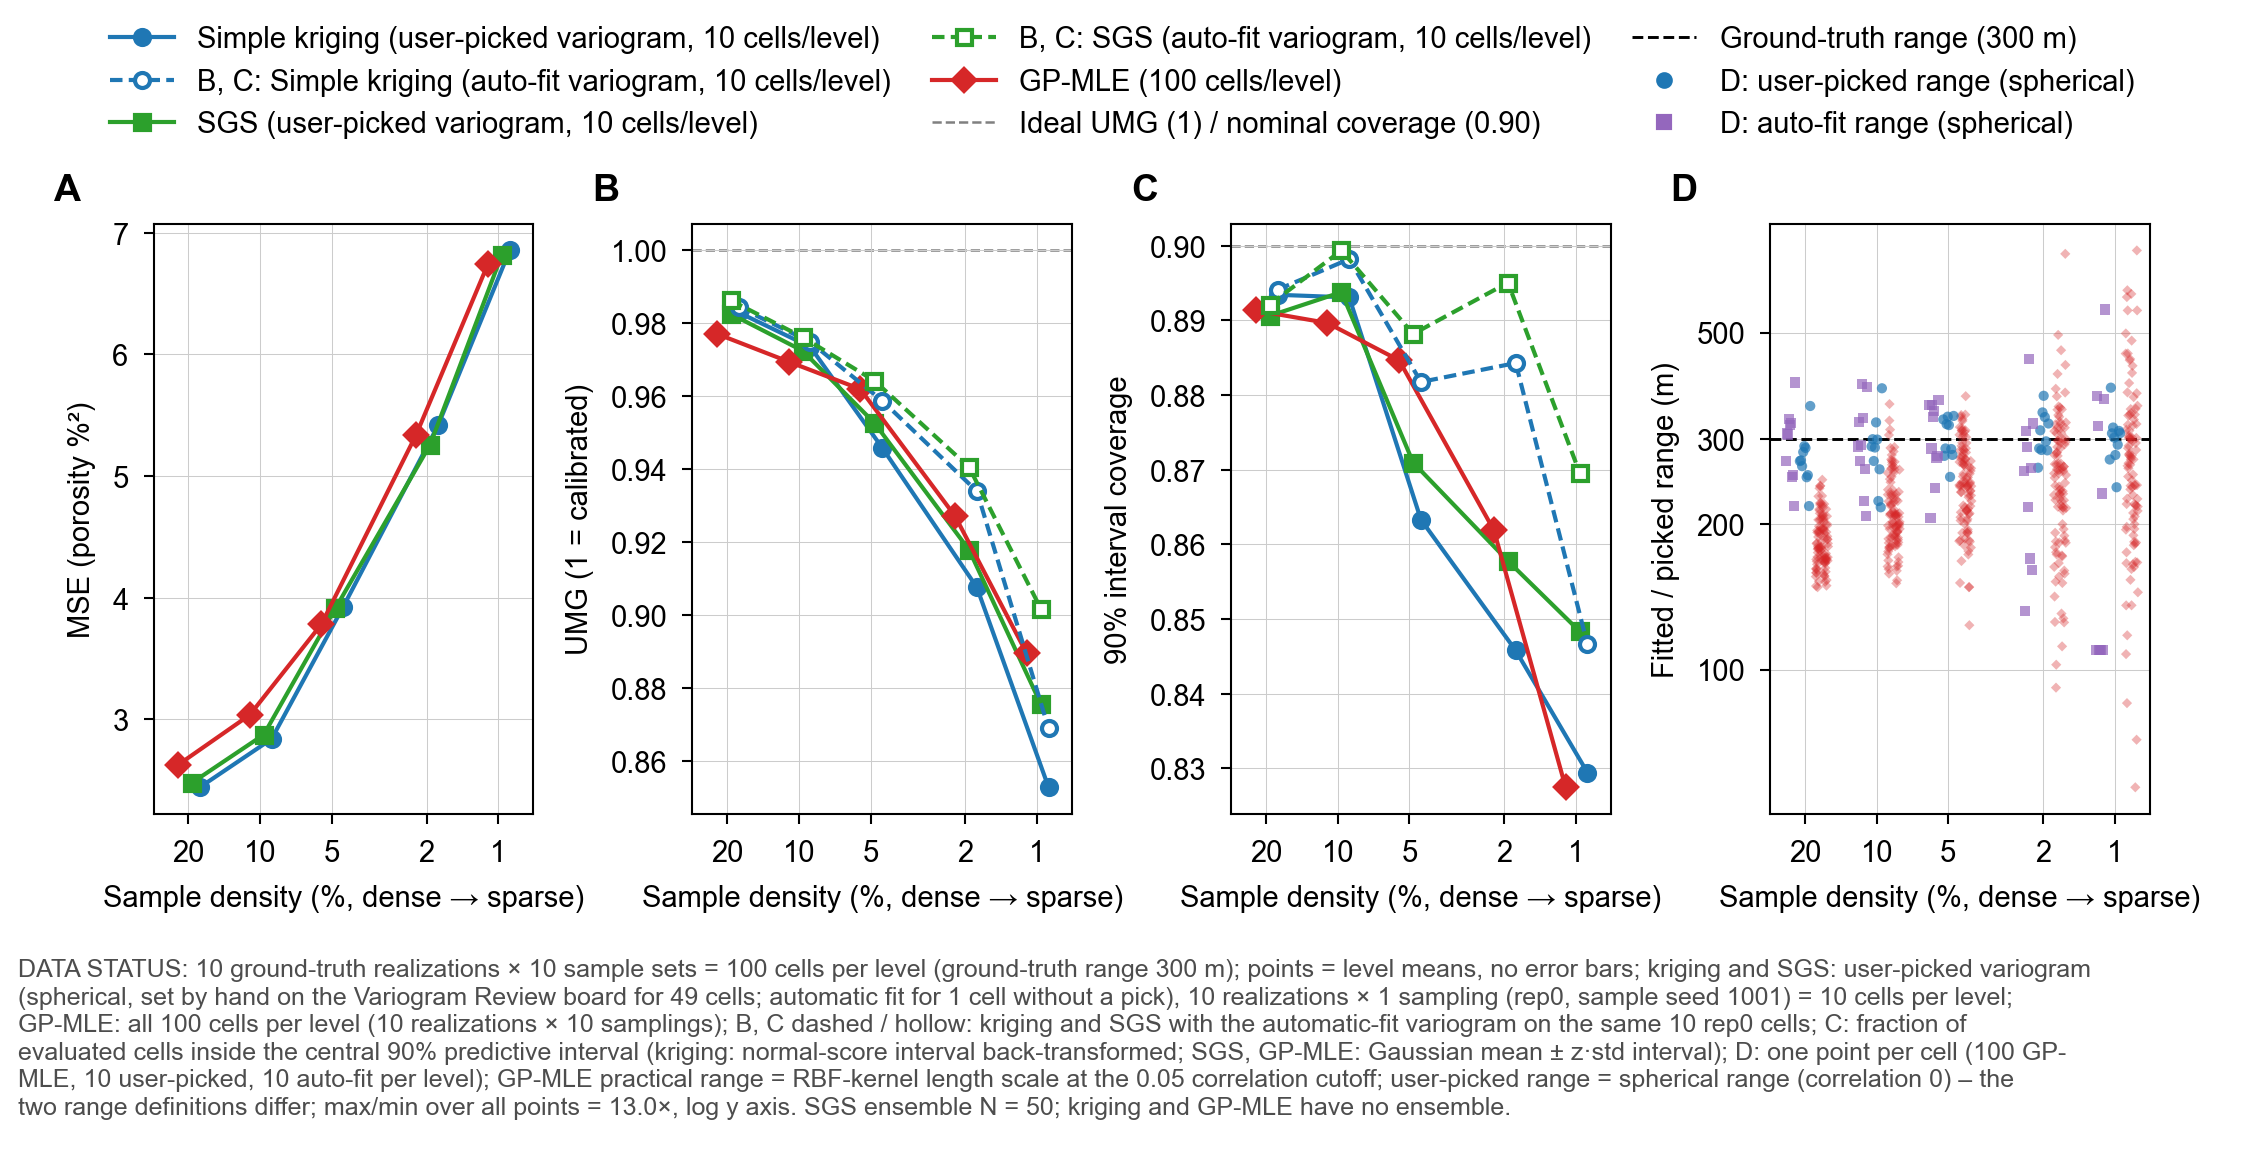
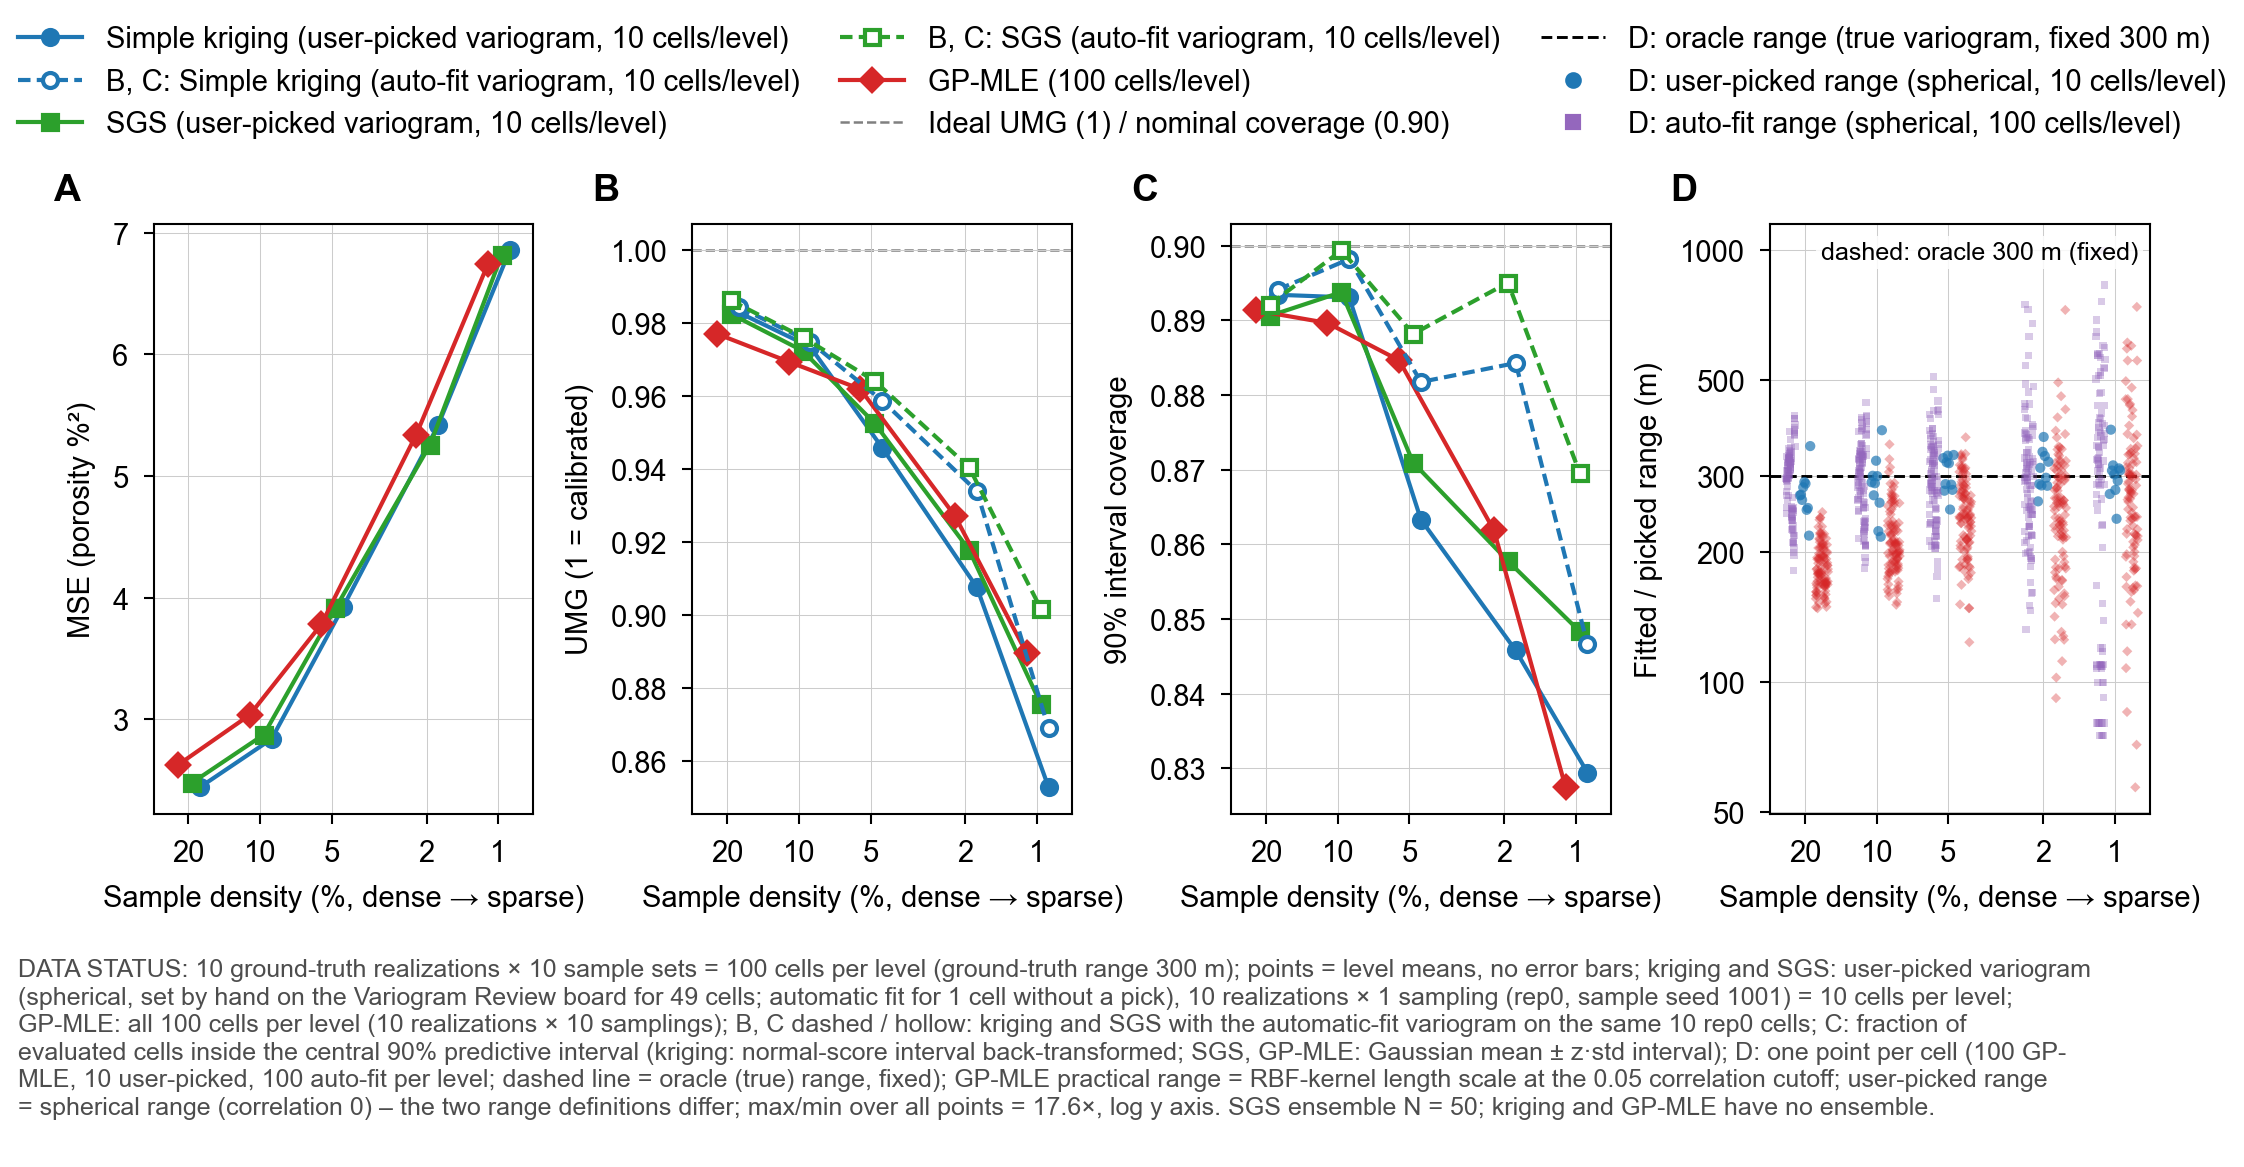
F3-2 D: auto-fit range from all 100 cells per density; label oracle 300 m
User asked for the full 100-cell automatic-fit ranges instead of the 10 rep0
ones, and for the dashed 300 m line to be marked as the fixed oracle range.
F1-F7 outputs unchanged.

diff --git a/results/processed/paper_storyboard/make_storyboard_figures.py b/results/processed/paper_storyboard/make_storyboard_figures.py
@@ -1298,8 +1298,16 @@ def figure_f3_2(mt):
     n_src = pc["vario_source"].value_counts().to_dict()
     auto_cells = pc[pc["vario_source"] == "auto"]
     unconf = pc[pc["pick_confirmed"].astype(str) == "False"]
-    spread = float(max(gp_all["value"].max(), pc["vario_hmaj1"].max(), pc["auto_fit_range_m"].max())
-                   / min(gp_all["value"].min(), pc["vario_hmaj1"].min(), pc["auto_fit_range_m"].min()))
+    # D purple: automatic-fit range of ALL cells per level (user request 2026-11-18)
+    fits = pd.read_csv(INF_FITS, dtype={"axis_level": str, "sample_rep": str})
+    fits = fits[fits["experiment"] == a["experiment"]]
+    if set(fits.groupby("axis_level").size()) != {F3_2_GP_N_CELLS} or set(fits["axis_level"]) != set(DENSITY_LEVELS):
+        raise ValueError(f"{_rel(INF_FITS)}: expected {F3_2_GP_N_CELLS} E4 fits per density level.")
+    if not np.allclose(pc["auto_fit_range_m"].values,
+                       fits.set_index("config_key").loc[pc["config_key"], "fit_range_m"].values, rtol=1e-12, atol=0):
+        raise ValueError(f"{_rel(PICK_CELLS)} auto_fit_range_m differs from {_rel(INF_FITS)} fit_range_m.")
+    spread = float(max(gp_all["value"].max(), pc["vario_hmaj1"].max(), fits["fit_range_m"].max())
+                   / min(gp_all["value"].min(), pc["vario_hmaj1"].min(), fits["fit_range_m"].min()))
     use_log = spread >= RATIO_LOG_THRESHOLD
     ax_scale = "log" if use_log else "linear"
 
@@ -1312,7 +1320,7 @@ def figure_f3_2(mt):
         f"samplings); B, C dashed / hollow: kriging and SGS with the automatic-fit variogram on the same "
         f"{n_pick} {PICK_SAMPLE_REP} cells; C: fraction of evaluated cells inside the central {COV90_NOMINAL:.0%} predictive interval "
         f"(kriging: normal-score interval back-transformed; SGS, GP-MLE: Gaussian mean ± z·std interval); "
-        f"D: one point per cell ({F3_2_GP_N_CELLS} GP-MLE, {n_pick} user-picked, {n_pick} auto-fit per level); GP-MLE practical "
+        f"D: one point per cell ({F3_2_GP_N_CELLS} GP-MLE, {n_pick} user-picked, {F3_2_GP_N_CELLS} auto-fit per level; dashed line = oracle (true) range, fixed); GP-MLE practical "
         f"range = RBF-kernel length scale at the 0.05 correlation cutoff; user-picked range = spherical range "
         f"(correlation 0) – the two range definitions differ; max/min over all points = {spread:.1f}×, "
         f"{ax_scale} y axis. SGS ensemble N = {mt['n_ens']}; kriging and GP-MLE have no ensemble."
@@ -1348,12 +1356,16 @@ def figure_f3_2(mt):
             s=F3_2_D_MARKER_S, marker="o", facecolors=F3_D_INF_COLOR,
             edgecolors="none", alpha=F3_2_D_ALPHA, zorder=3,
         )
+        fsub = fits[fits["axis_level"] == lvl].sort_values(["truth_seed", "sample_rep"])
         ax_d.scatter(
-            dens["pct"][lvl] * (1.0 + F3_2_D_SHIFT + sp_pk), psub["auto_fit_range_m"],
-            s=F3_2_D_MARKER_S, marker="s", facecolors=F3_2_D_AUTO_COLOR,
-            edgecolors="none", alpha=F3_2_D_ALPHA, zorder=3,
+            dens["pct"][lvl] * (1.0 + F3_2_D_SHIFT + sp_gp), fsub["fit_range_m"],
+            s=F3_D_MARKER_S, marker="s", facecolors=F3_2_D_AUTO_COLOR,
+            edgecolors="none", alpha=F3_D_ALPHA, zorder=3,
         )
     ax_d.axhline(dens["truth_range_m"], color="black", linestyle="--", linewidth=0.7, zorder=2)
+    ax_d.text(0.97, 0.97, f"dashed: oracle {dens['truth_range_m']:g} m (fixed)", transform=ax_d.transAxes,
+              ha="right", va="top", fontsize=6, zorder=5,
+              bbox=dict(boxstyle="square,pad=0.2", facecolor="white", edgecolor="none", alpha=0.85))
     if use_log:
         ax_d.set_yscale("log")
         lo, hi = ax_d.get_ylim()
@@ -1394,11 +1406,11 @@ def figure_f3_2(mt):
         Line2D([0], [0], color="gray", linestyle="--", linewidth=0.6,
                label=f"Ideal UMG (1) / nominal coverage ({COV90_NOMINAL:.2f})"),
         Line2D([0], [0], color="black", linestyle="--", linewidth=0.7,
-               label=f"Ground-truth range ({dens['truth_range_m']:g} m)"),
+               label=f"D: oracle range (true variogram, fixed {dens['truth_range_m']:g} m)"),
         Line2D([0], [0], color=F3_D_INF_COLOR, marker="o", linestyle="none", markersize=3.0,
-               label="D: user-picked range (spherical)"),
+               label=f"D: user-picked range (spherical, {n_pick} cells/level)"),
         Line2D([0], [0], color=F3_2_D_AUTO_COLOR, marker="s", linestyle="none", markersize=3.0,
-               label="D: auto-fit range (spherical)"),
+               label=f"D: auto-fit range (spherical, {F3_2_GP_N_CELLS} cells/level)"),
     ]
     fig.legend(handles=handles, loc="upper center", ncol=3, bbox_to_anchor=(0.5, 1.0), columnspacing=1.4)
 
@@ -1408,20 +1420,15 @@ def figure_f3_2(mt):
     pk_level = pc.groupby("axis_level")["vario_hmaj1"].describe(percentiles=[0.5]).loc[DENSITY_LEVELS]
     pk_above = {lvl: int((pc[pc["axis_level"] == lvl]["vario_hmaj1"] > dens["truth_range_m"]).sum())
                 for lvl in DENSITY_LEVELS}
-    fits = pd.read_csv(INF_FITS, dtype={"axis_level": str, "sample_rep": str})
-    fits = fits[fits["experiment"] == a["experiment"]].set_index("config_key")
-    if not np.allclose(pc["auto_fit_range_m"].values, fits.loc[pc["config_key"], "fit_range_m"].values,
-                       rtol=1e-12, atol=0):
-        raise ValueError(f"{_rel(PICK_CELLS)} auto_fit_range_m differs from {_rel(INF_FITS)} fit_range_m.")
-    au_level = pc.groupby("axis_level")["auto_fit_range_m"].describe(percentiles=[0.5]).loc[DENSITY_LEVELS]
-    au_above = {lvl: int((pc[pc["axis_level"] == lvl]["auto_fit_range_m"] > dens["truth_range_m"]).sum())
+    au_level = fits.groupby("axis_level")["fit_range_m"].describe(percentiles=[0.5]).loc[DENSITY_LEVELS]
+    au_above = {lvl: int((fits[fits["axis_level"] == lvl]["fit_range_m"] > dens["truth_range_m"]).sum())
                 for lvl in DENSITY_LEVELS}
     prov = r0["prov"]
     lines = _status_file(
         stem,
         inputs=_mt_inputs(mt, extra=[
-            f"{_rel(PICK_CELLS)} auto_fit_range_m (panel D purple; asserted equal to {_rel(INF_FITS)} "
-            "fit_range_m)",
+            f"{_rel(INF_FITS)} (rows experiment == {a['experiment']}, all {F3_2_GP_N_CELLS} cells per level; "
+            "fit_range_m = panel D purple)",
             f"{_rel(MTA_SUMMARY)} (rows experiment == {a['experiment']}, method == gp_mle; {F3_2_GP_N_CELLS} "
             "cells per level, pooled mean)",
             f"{_rel(MTA_HYPER)} (rows experiment == {a['experiment']}, method == gp_mle, parameter == "
@@ -1442,8 +1449,8 @@ def figure_f3_2(mt):
             ("D", f"REAL DATA - range, one point per cell: GP-MLE practical range of all {F3_2_GP_N_CELLS} cells "
                   f"per level (red diamonds, shifted left) and the spherical range of the user-picked variogram "
                   f"of the {n_pick} rep0 cells used by kriging and SGS (blue circles, centre) and the automatic-fit "
-                  f"spherical range of the same cells (purple squares, shifted right); dashed line = "
-                  f"ground-truth range {dens['truth_range_m']:g} m"),
+                  f"spherical range of all {F3_2_GP_N_CELLS} cells per level (purple squares, shifted right); "
+                  f"dashed line = oracle (true-variogram) range, fixed {dens['truth_range_m']:g} m"),
         ],
         in_figure_note="DATA STATUS: " + note,
         limits=[
@@ -1482,7 +1489,7 @@ def figure_f3_2(mt):
                       f"{pk_level.loc[lvl, 'max']:.0f}, {pk_above[lvl]} of {n_pick} above" for lvl in DENSITY_LEVELS),
             "panel D auto-fit spherical range per-level min / median / max (m), count above the true range: " +
             "; ".join(f"{lvl}%: {au_level.loc[lvl, 'min']:.0f} / {au_level.loc[lvl, '50%']:.0f} / "
-                      f"{au_level.loc[lvl, 'max']:.0f}, {au_above[lvl]} of {n_pick} above" for lvl in DENSITY_LEVELS),
+                      f"{au_level.loc[lvl, 'max']:.0f}, {au_above[lvl]} of {F3_2_GP_N_CELLS} above" for lvl in DENSITY_LEVELS),
             "SGS grid-node warnings, user-picked (cells with >0 / total): " + "; ".join(
                 f"{lvl}%: {r0['warn_picked'][lvl][0]} / {r0['warn_picked'][lvl][1]}" for lvl in DENSITY_LEVELS) + ".",
             "x positions are the REQUESTED sample fraction; actual n per level (rep0): " + "; ".join(

diff --git a/results/processed/paper_storyboard/build_storyboard_artifact.py b/results/processed/paper_storyboard/build_storyboard_artifact.py
@@ -46,7 +46,7 @@ FIGS = {
             "한 행 그림입니다. A는 MSE, B는 UMG, C는 90% 구간 coverage, D는 range입니다. 점은 레벨 평균이고 error bar는 없습니다.",
             "kriging과 SGS는 Variogram Review 보드에서 셀마다 직접 고른 spherical variogram으로 돌린 결과이고, 밀도당 ground truth 10개 × 샘플셋 rep0 1개(sample seed 1001) = 10셀입니다(49셀은 직접 고른 값, 고르지 않은 1셀(2 %, truth 101)은 자동 적합값; SGS N = 50). 보드에는 각 셀의 정답 variogram 곡선이 함께 표시되어 있었습니다. GP-MLE는 밀도당 100셀(ground truth 10개 × 샘플셋 10개) 전체의 평균입니다. 따라서 GP-MLE와 kriging/SGS는 같은 셀 집합이 아닙니다.",
             "B와 C의 점선과 속이 빈 마커(파랑 kriging, 초록 SGS)는 같은 10셀에서 셀마다 자동 적합한 variogram으로 돌린 결과입니다.",
-            "D는 셀마다 range를 점 하나로 찍은 것입니다(로그 축). 빨간 마름모(오른쪽)는 GP-MLE practical range(상관 0.05 기준, 레벨당 100개), 파란 점(가운데)은 kriging과 SGS가 쓴 직접 고른 spherical range, 보라 사각형(왼쪽)은 같은 10셀에서 자동 적합한 spherical range입니다(상관 0 기준, 각 레벨당 10개). x축이 밀도가 높은 쪽에서 낮은 쪽으로 가므로 오른쪽으로 민 계열이 그림에서는 왼쪽에 놓입니다. 점선은 ground-truth range 300 m입니다.",
+            "D는 셀마다 range를 점 하나로 찍은 것입니다(로그 축). 빨간 마름모(오른쪽)는 GP-MLE practical range(상관 0.05 기준, 레벨당 100개), 파란 점(가운데)은 kriging과 SGS가 쓴 직접 고른 spherical range, 보라 사각형(왼쪽)은 100셀 전체에서 자동 적합한 spherical range입니다(상관 0 기준; 파란 점은 레벨당 10개, 보라 사각형은 100개). x축이 밀도가 높은 쪽에서 낮은 쪽으로 가므로 오른쪽으로 민 계열이 그림에서는 왼쪽에 놓입니다. 점선은 oracle(정답 variogram)의 range로, 300 m로 고정입니다.",
         ]),
     "F3-2b": dict(
         stem="F3-2b_density_truth_and_samples", st=REAL,
@@ -119,7 +119,7 @@ CLAIMS = {
         "C: 90% coverage는 kriging 0.893 → 0.829, SGS 0.891 → 0.848, GP-MLE 0.891 → 0.827입니다.",
         "B, C 점선(자동 적합 variogram, 같은 10셀): UMG는 kriging 0.985 → 0.869, SGS 0.986 → 0.902이고, 90% coverage는 kriging 0.894 → 0.847, SGS 0.892 → 0.870입니다.",
         "D: GP-MLE practical range(100셀)의 중앙값은 20 %에서 181 m, 1 %에서 270 m이고, 범위는 20 %에서 148~248 m, 1 %에서 57~740 m입니다. 300 m를 넘는 셀은 100개 중 20 % 0개, 10 % 4개, 5 % 16개, 2 % 26개, 1 % 38개입니다. 직접 고른 range(10셀)의 중앙값은 271~306 m입니다.",
-        "D: 자동 적합 range(같은 10셀)의 중앙값은 20 %에서 308 m, 1 %에서 171 m이고, 범위는 20 %에서 218~394 m, 1 %에서 110~558 m입니다.",
+        "D: 자동 적합 range(100셀)의 중앙값은 레벨마다 293~323 m이고, 범위는 20 %에서 181~414 m, 1 %에서 75~1000 m입니다. 300 m를 넘는 셀은 100개 중 45~55개입니다. oracle range는 300 m 고정입니다.",
     ],
     "F3-2b": [
         "밀도 20, 10, 5, 2, 1 %에서 샘플 위치 수는 442, 244, 120, 48, 25개입니다.",
